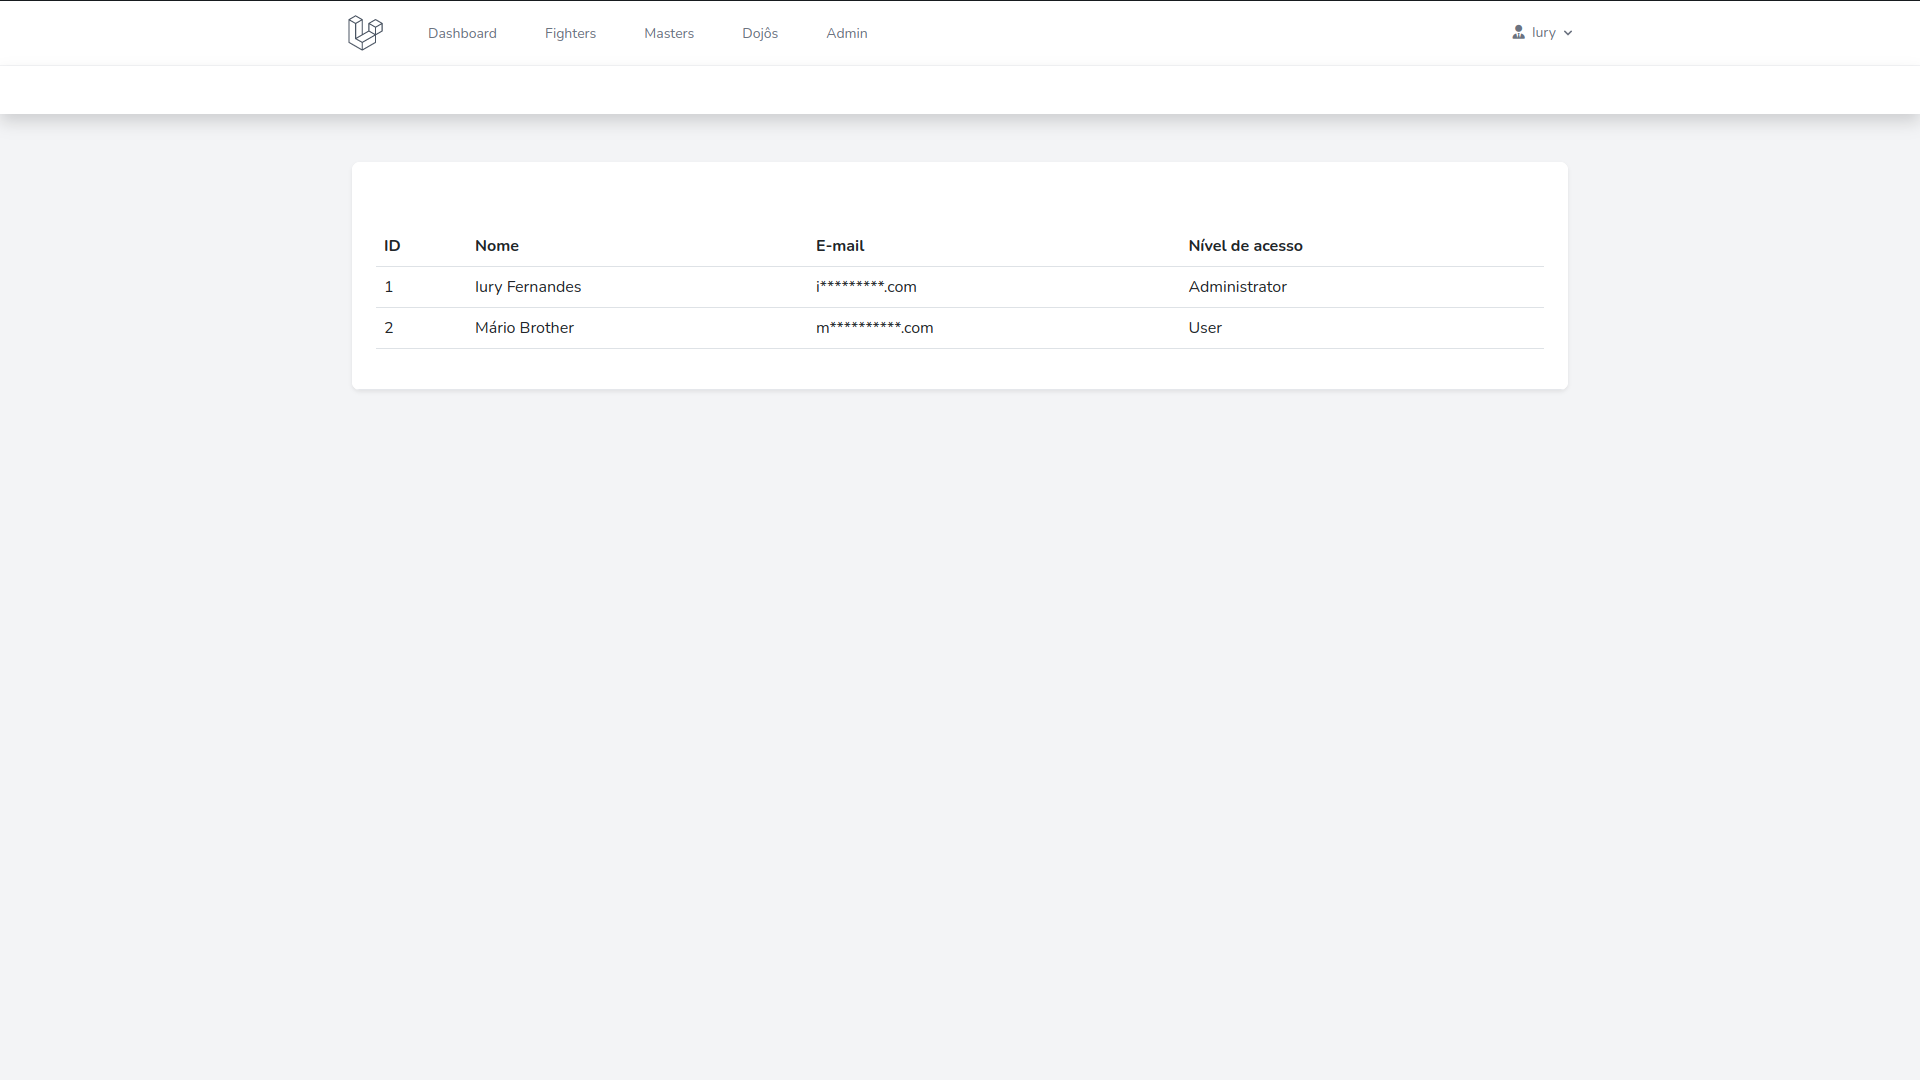
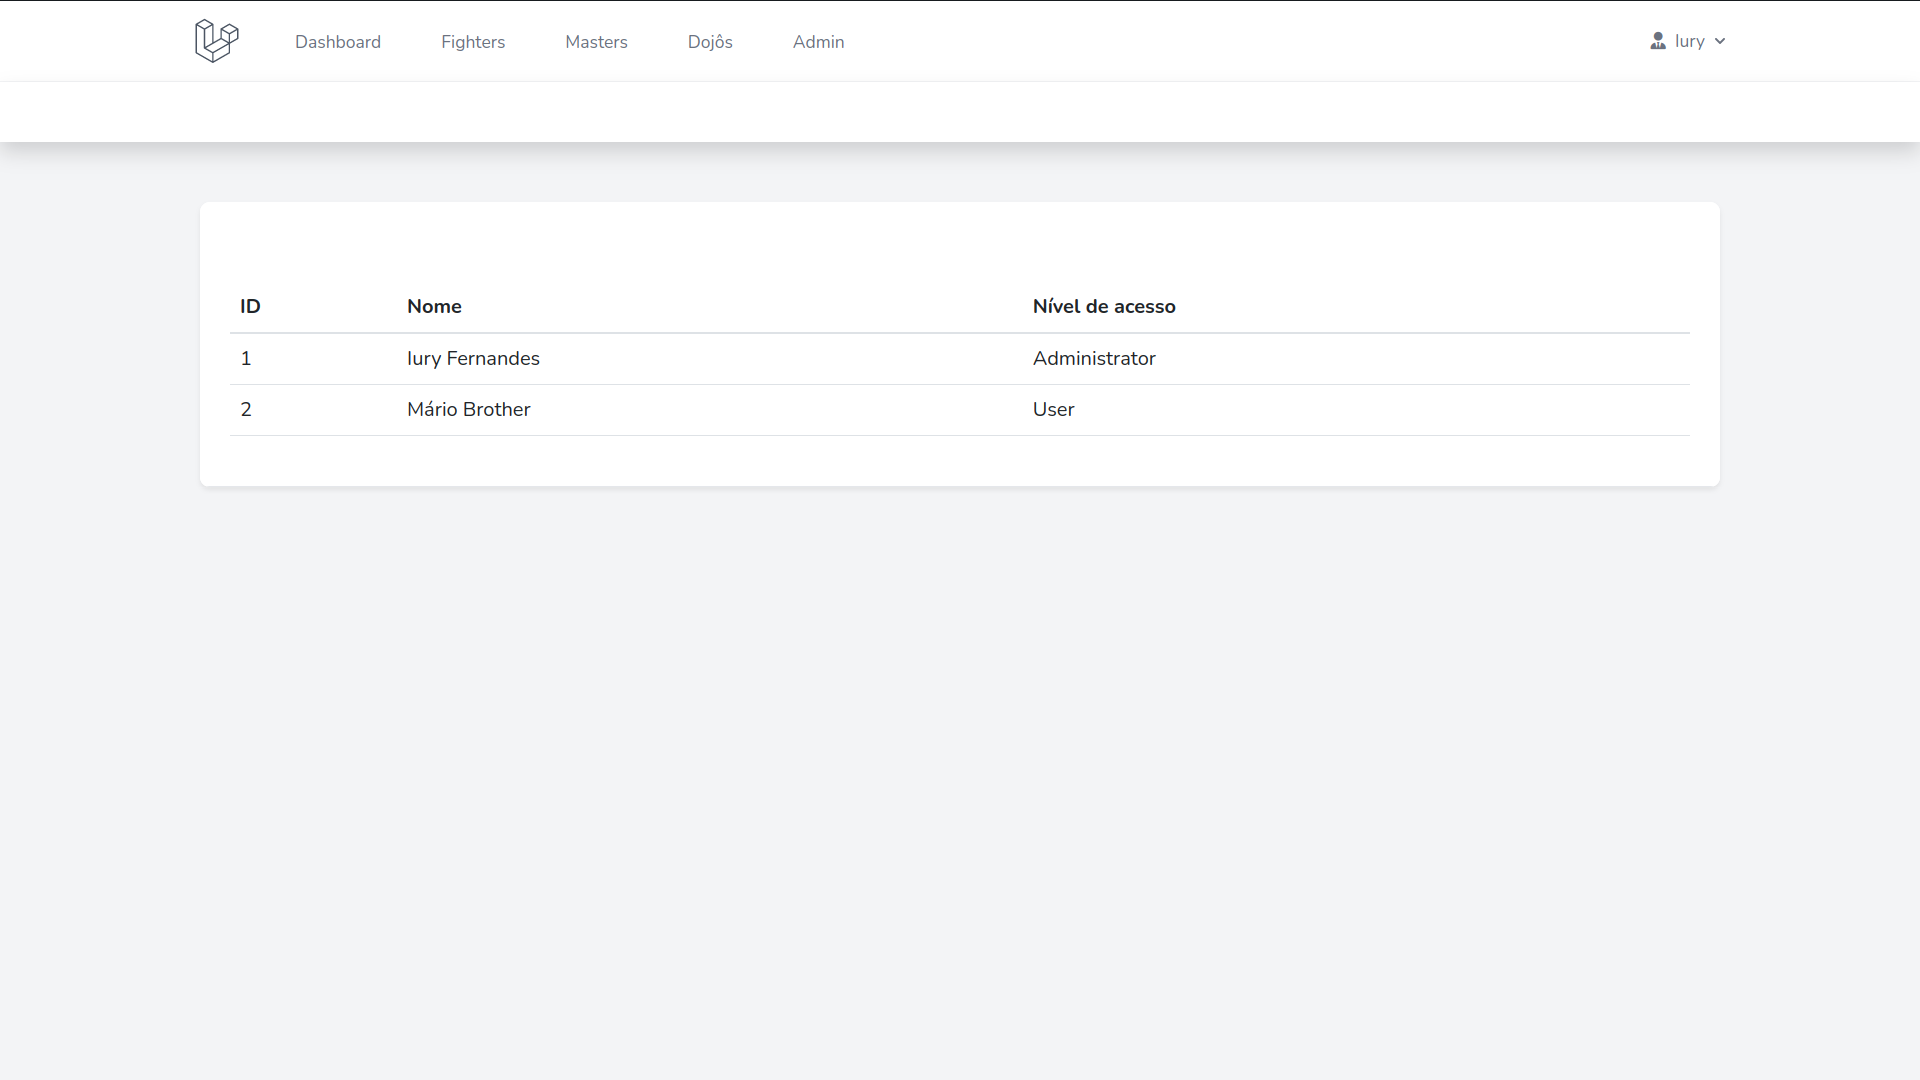
Fixing some things

diff --git a/resources/views/admin/admin.blade.php b/resources/views/admin/admin.blade.php
@@ -9,12 +9,11 @@
                 <nav class="navbar navbar-default">
                 </nav>
                 <br>
-                  <table class="table table-hover">
+                    <table class="table table-hover">
                       <thead>
                         <tr>
                           <th title="ID"> ID </th>
                           <th title="Nome"> Nome </th>
-                          <th title="Master"> E-mail </th>
                           <th title="Nível de acesso"> Nível de acesso </th>
                         </tr>
                       </thead>
@@ -23,7 +22,6 @@
                           <tr>
                             <td title="{{ $u->id }}"> {{ $u->id }} </td>
                             <td title="{{ $u->name }}"> {{ $u->name }} </td>
-                            <td title="{{ Str::mask($u->email,'*',1,-4) }}"> {{ Str::mask($u->email,'*',1,-4) }} </td>
                             <td title="{{ $u->role == 0 ? "User" : "Administrator" }}"> {{ $u->role == 0 ? "User" : "Administrator" }} </td>
                           </tr>
                         @endforeach

diff --git a/app/Rules/MatchOldPasswordRule.php b/app/Rules/MatchOldPasswordRule.php
@@ -36,6 +36,6 @@ class MatchOldPasswordRule implements Rule
      */
     public function message()
     {
-        return 'A senha atual não é a mesma que está registrada no banco de dados.';
+        return 'Não foi encontrada sua senha atual no banco de dados.';
     }
 }

diff --git a/app/Rules/SamePasswordRule.php b/app/Rules/SamePasswordRule.php
@@ -35,6 +35,6 @@ class SamePasswordRule implements Rule
      */
     public function message()
     {
-        return 'A nova senha não pode ser igual a antiga.';
+        return 'Não é possível alterar sua senha atual pela mesma senha.';
     }
 }

diff --git a/app/Rules/PassportNumberRule.php b/app/Rules/PassportNumberRule.php
@@ -35,6 +35,6 @@ class PassportNumberRule implements Rule
      */
     public function message()
     {
-        return 'O número de passaporte não é valido.';
+        return 'O número de passaporte não está em um formato válido.';
     }
 }
